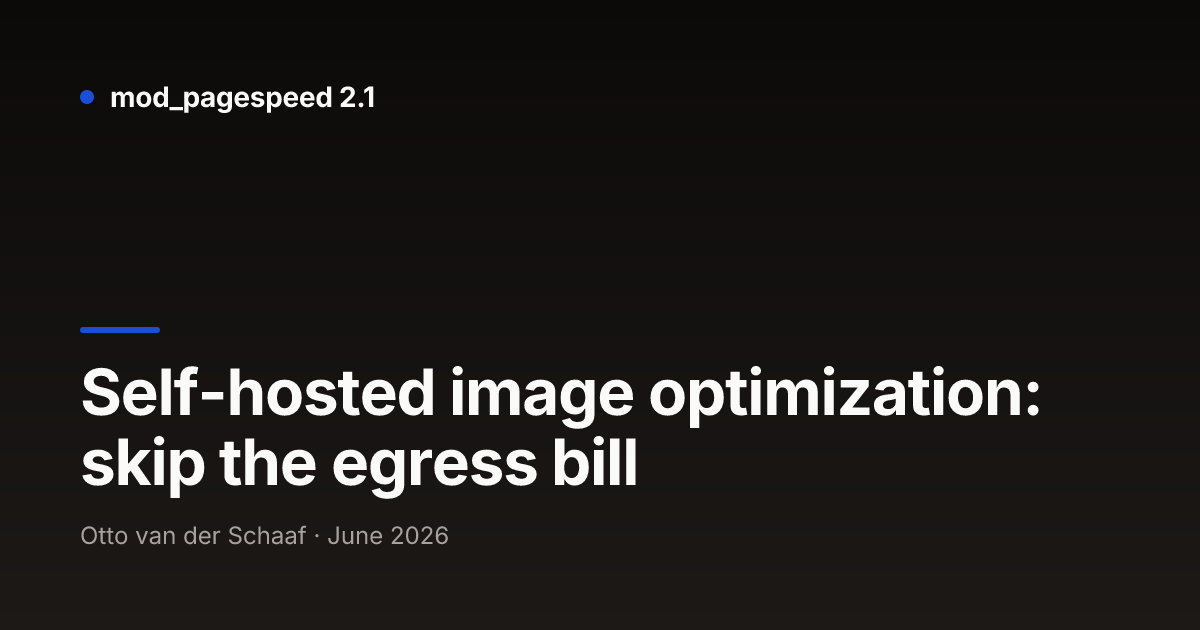
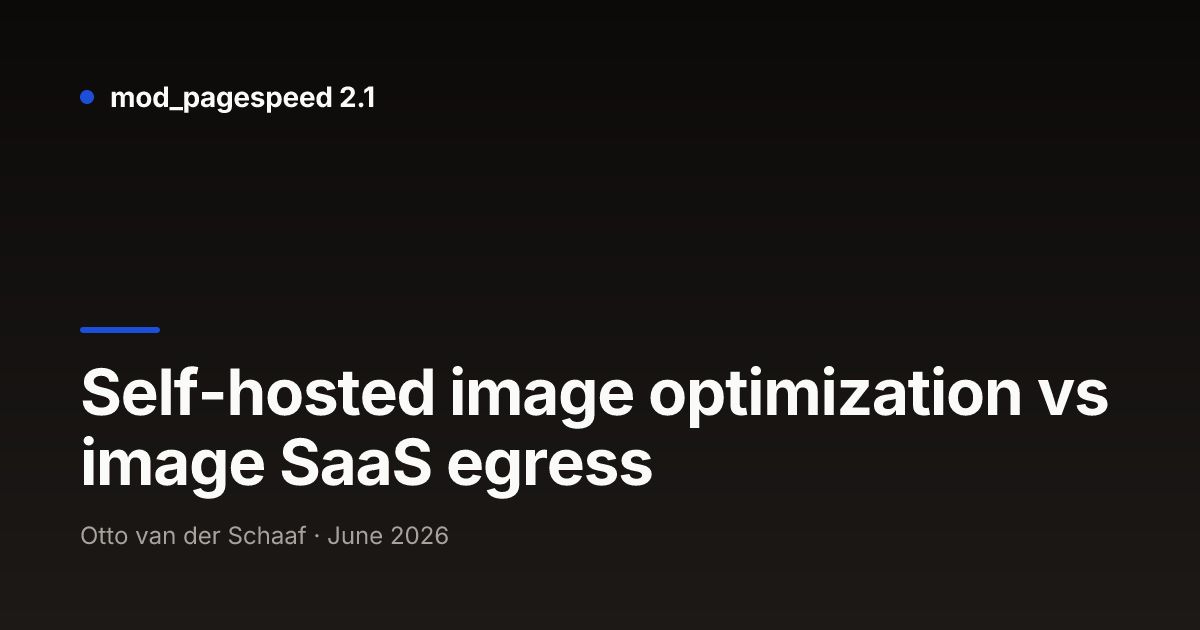
fix(website): review follow-ups on copy and titles
- Search Console post: the author line names the work on ngx_pagespeed,
  mod_pagespeed and the Apache incubation, and mod_pagespeed 2.1 as the
  maintained continuation.
- Terms description: one sentence end, no double period.
- Migration post titled as the 2.0 guide it is.
- CLS on nginx post: the description names ngx_pagespeed again.
- Self-hosted image optimization post: a title distinct from the page.
- PageSpeed module explainer: only the ngx_pagespeed build failure on
  current nginx is stated.
- Core Web Vitals metric names capitalised as proper nouns in the pillar
  titles, headings and the links to them.

Changed region(s): [[0.0617, 0.6937, 0.555, 0.8143], [0.8325, 0.6032, 0.925, 0.6635]]

diff --git a/website/src/data/cwv-pillars.ts b/website/src/data/cwv-pillars.ts
@@ -94,10 +94,10 @@ export const pillars: CwvPillar[] = [
     abbr: 'LCP',
     name: 'Largest Contentful Paint',
     slug: '/core-web-vitals/lcp/',
-    title: 'How to fix largest contentful paint (LCP) in 2026',
+    title: 'How to fix Largest Contentful Paint (LCP) in 2026',
     description:
       'Fix LCP (Largest Contentful Paint) by phase: diagnose TTFB, load delay, load duration, and render delay, then fix it at the server layer and in your app.',
-    h1: 'How to fix largest contentful paint (LCP)',
+    h1: 'How to fix Largest Contentful Paint (LCP)',
     serverFilters: [
       'prioritize_critical_css',
       'convert_jpeg_to_webp',
@@ -237,10 +237,10 @@ export const pillars: CwvPillar[] = [
     abbr: 'CLS',
     name: 'Cumulative Layout Shift',
     slug: '/core-web-vitals/cls/',
-    title: 'How to fix cumulative layout shift (CLS) in 2026',
+    title: 'How to fix Cumulative Layout Shift (CLS) in 2026',
     description:
       'Fix CLS (Cumulative Layout Shift): reserve space with server-set image dimensions and critical CSS, then handle the font, iframe, and JS-injection cases.',
-    h1: 'How to fix cumulative layout shift (CLS)',
+    h1: 'How to fix Cumulative Layout Shift (CLS)',
     serverFilters: ['insert_image_dimensions', 'prioritize_critical_css', 'extend_cache'],
     intro:
       '<p>CLS is a layout-reservation problem, not a loading-speed problem. The page jumps because something arrived later than the layout assumed: an image with no reserved box, a font that reflowed the text, a banner that pushed content down. The fix is not "load faster"; it is "reserve the right space before the late thing arrives." With that framing, most CLS work is mechanical.</p><p>This page covers what CLS measures, how to find the element that owns the shift, and how to fix it, split between what a <a href="/features/">server-layer optimizer</a> handles for you and what only your own CSS and markup can. The largest single cause, images without explicit dimensions, mod_pagespeed fixes automatically; the rest needs reserved space you have to write. To see your own numbers, <a href="/analyze/">analyze a page</a> first.</p>',
@@ -364,10 +364,10 @@ export const pillars: CwvPillar[] = [
     abbr: 'INP',
     name: 'Interaction to Next Paint',
     slug: '/core-web-vitals/inp/',
-    title: 'How to fix interaction to next paint (INP) in 2026',
+    title: 'How to fix Interaction to Next Paint (INP) in 2026',
     description:
       "Fix INP (Interaction to Next Paint): the input-delay, processing, and presentation phases, the app-layer fixes, and where a server optimizer can't help.",
-    h1: 'Interaction to next paint (INP): diagnose it, then fix it',
+    h1: 'Interaction to Next Paint (INP): diagnose it, then fix it',
     intro:
       '<p><strong>Interaction to Next Paint (INP)</strong> is the Core Web Vital that measures responsiveness: how long the user waits between a click, tap, or keypress and the next frame the browser paints in response. It replaced First Input Delay in March 2024. Unlike its predecessor it counts the whole interaction: not just the delay before your handler runs, but the handler itself and the paint that follows. That makes it the hardest vital to game, and the one most sites still fail.</p><p>Know this before you start: INP is the metric where a server-layer optimizer helps the least. The dominant cause is JavaScript running on the main thread, and that JavaScript lives in <em>your application code</em>, not at the server. This page gives you the diagnosis workflow and fixes split by where they actually live: the few things <a href="/features/">mod_pagespeed</a> can do at the server layer, and the larger set of changes only your app can make. Then it hands you off to the per-platform guide that names the failure modes on your stack.</p>',
     thresholds: {

diff --git a/website/tests/search-capture.spec.ts b/website/tests/search-capture.spec.ts
@@ -19,8 +19,8 @@ const titles: Array<[string, string]> = [
     '/alternatives/google-pagespeed-module/',
     'What is the Google PageSpeed module, and what replaced it',
   ],
-  ['/core-web-vitals/cls/', 'How to fix cumulative layout shift (CLS) in 2026'],
-  ['/core-web-vitals/lcp/', 'How to fix largest contentful paint (LCP) in 2026'],
+  ['/core-web-vitals/cls/', 'How to fix Cumulative Layout Shift (CLS) in 2026'],
+  ['/core-web-vitals/lcp/', 'How to fix Largest Contentful Paint (LCP) in 2026'],
   ['/ai-readability/', 'AI readability checker: what AI crawlers read on your page'],
   [
     '/blog/economics-of-image-optimization/',

diff --git a/website/src/content/blog/wordpress-server-side-page-cache-plugin.md b/website/src/content/blog/wordpress-server-side-page-cache-plugin.md
@@ -51,9 +51,9 @@ The plugin auto-detects which one of the two is running and adjusts. The same se
 - [What Happens When You Purge One URL](/blog/single-url-cache-purge-optimizing-proxy/) — the cache fan-out a single purge call actually triggers
 - [Where TTFB Actually Goes, and the Server-Layer Fix](/blog/reduce-ttfb-server-layer-2026/) — why a server-side page cache is the lever for time-to-first-byte
 - [Fixing LCP on WordPress](/blog/fix-lcp-wordpress-2026/) — what server-layer caching and optimization do for Largest Contentful Paint
-- [How to fix largest contentful paint (LCP)](/core-web-vitals/lcp/): the four LCP phases and the server-side fixes
+- [How to fix Largest Contentful Paint (LCP)](/core-web-vitals/lcp/): the four LCP phases and the server-side fixes
 - [Fixing CLS on WordPress](/blog/fix-cls-wordpress-2026/) — the layout-shift fixes that pair with a cacheable anonymous page
-- [How to fix cumulative layout shift (CLS)](/core-web-vitals/cls/): causes, thresholds and the server-side fixes
+- [How to fix Cumulative Layout Shift (CLS)](/core-web-vitals/cls/): causes, thresholds and the server-side fixes
 - [mod_pagespeed vs WP Rocket](/vs/wp-rocket/) — where the cache lives, PHP layer versus server module
 - [Running mod_pagespeed with Docker Compose](/blog/run-with-docker-compose/) — standing up the optimizer worker the plugin talks to
 - [Cache-Control and purging](/docs/cache-control/) — how full-page caching and invalidation work in the module

diff --git a/website/src/content/blog/fix-cls-nginx-2026.md b/website/src/content/blog/fix-cls-nginx-2026.md
@@ -1,6 +1,6 @@
 ---
 title: 'Fix CLS on nginx with mod_pagespeed: insert_image_dimensions'
-description: 'Fix CLS on nginx-served sites: add width and height to img tags with the mod_pagespeed 2.1 module, add a CSS aspect-ratio backstop, set sizes at build.'
+description: 'Fix CLS on nginx sites: add width and height to img tags with ngx_pagespeed (mod_pagespeed 2.1), add a CSS aspect-ratio backstop, set sizes at build.'
 date: 2026-05-12
 lastUpdated: 2026-07-04
 author: 'Otto van der Schaaf'
@@ -156,7 +156,7 @@ Add the CSS rule `img { max-width: 100%; height: auto; }` and modern browsers co
 ## Related
 
 - [How to fix LCP on nginx](/blog/fix-lcp-nginx-2026/)
-- [How to fix largest contentful paint (LCP)](/core-web-vitals/lcp/): the four LCP phases and the server-side fixes
+- [How to fix Largest Contentful Paint (LCP)](/core-web-vitals/lcp/): the four LCP phases and the server-side fixes
 - [How to fix INP on nginx](/blog/fix-inp-nginx-2026/)
 - [How to fix CLS on WordPress](/blog/fix-cls-wordpress-2026/)
 - [Server-side critical CSS on nginx](/blog/server-side-critical-css-nginx/)

diff --git a/website/src/content/blog/search-console-ai-performance-report-vs-page-speed.md b/website/src/content/blog/search-console-ai-performance-report-vs-page-speed.md
@@ -14,7 +14,7 @@ Google's new Search Console report measures your search visibility inside its ge
 
 That trips people up because the report is named for "performance," and "performance" is also the word PageSpeed Insights, Lighthouse, Core Web Vitals, and mod_pagespeed use for how fast your pages load and how stable they are while loading. Same word, two unrelated measurements.
 
-I'm an Apache PageSpeed committer who helped ship open-source PageSpeed releases, and now build the commercial successors at We-Amp B.V., so the speed half is the half I work on. The visibility half is Google's new report, worth understanding on its own terms.
+I'm an Apache PageSpeed committer: I helped build ngx_pagespeed, maintained mod_pagespeed and drove its Apache incubation, and now build its maintained continuation, mod_pagespeed 2.1, at We-Amp B.V., so the speed half is the half I work on. The visibility half is Google's new report, worth understanding on its own terms.
 
 ## What Google actually announced
 

diff --git a/website/src/content/blog/fix-inp-woocommerce-2026.md b/website/src/content/blog/fix-inp-woocommerce-2026.md
@@ -135,9 +135,9 @@ If your INP problem is on the homepage/blog, the server layer is the high-levera
 
 - [WordPress full-page caching plugin](/wordpress/)
 - [How to fix LCP on WooCommerce](/blog/fix-lcp-woocommerce-2026/)
-- [How to fix largest contentful paint (LCP)](/core-web-vitals/lcp/): the four LCP phases and the server-side fixes
+- [How to fix Largest Contentful Paint (LCP)](/core-web-vitals/lcp/): the four LCP phases and the server-side fixes
 - [How to fix CLS on WooCommerce](/blog/fix-cls-woocommerce-2026/)
-- [How to fix cumulative layout shift (CLS)](/core-web-vitals/cls/): causes, thresholds and the server-side fixes
+- [How to fix Cumulative Layout Shift (CLS)](/core-web-vitals/cls/): causes, thresholds and the server-side fixes
 - [How to fix INP on WordPress](/blog/fix-inp-wordpress-2026/)
 - [Critical CSS without a headless browser](/blog/critical-css-heuristics/)
 - [mod_pagespeed filter reference](/docs/filter-reference/)

diff --git a/website/src/content/blog/fix-inp-wordpress-2026.md b/website/src/content/blog/fix-inp-wordpress-2026.md
@@ -138,9 +138,9 @@ WordPress INP is mostly a plugin-discipline problem. mod_pagespeed reduces the p
 
 - [WordPress full-page caching plugin](/wordpress/)
 - [How to fix LCP on WordPress](/blog/fix-lcp-wordpress-2026/)
-- [How to fix largest contentful paint (LCP)](/core-web-vitals/lcp/): the four LCP phases and the server-side fixes
+- [How to fix Largest Contentful Paint (LCP)](/core-web-vitals/lcp/): the four LCP phases and the server-side fixes
 - [How to fix CLS on WordPress](/blog/fix-cls-wordpress-2026/)
-- [How to fix cumulative layout shift (CLS)](/core-web-vitals/cls/): causes, thresholds and the server-side fixes
+- [How to fix Cumulative Layout Shift (CLS)](/core-web-vitals/cls/): causes, thresholds and the server-side fixes
 - [How to fix INP on WooCommerce](/blog/fix-inp-woocommerce-2026/)
 - [Critical CSS without a headless browser](/blog/critical-css-heuristics/)
 - [mod_pagespeed filter reference](/docs/filter-reference/)

diff --git a/website/src/content/blog/fix-inp-aspnet-core-2026.md b/website/src/content/blog/fix-inp-aspnet-core-2026.md
@@ -158,9 +158,9 @@ ASP.NET Core's INP story is almost entirely about what frontend you ship. mod_pa
 ## Related
 
 - [How to fix LCP on ASP.NET Core](/blog/fix-lcp-aspnet-core-2026/)
-- [How to fix largest contentful paint (LCP)](/core-web-vitals/lcp/): the four LCP phases and the server-side fixes
+- [How to fix Largest Contentful Paint (LCP)](/core-web-vitals/lcp/): the four LCP phases and the server-side fixes
 - [How to fix CLS on ASP.NET Core](/blog/fix-cls-aspnet-core-2026/)
-- [How to fix cumulative layout shift (CLS)](/core-web-vitals/cls/): causes, thresholds and the server-side fixes
+- [How to fix Cumulative Layout Shift (CLS)](/core-web-vitals/cls/): causes, thresholds and the server-side fixes
 - [How to fix INP on nginx (generic)](/blog/fix-inp-nginx-2026/)
 - [ModPageSpeed 2.0 as ASP.NET Core middleware](/blog/aspnet-core-middleware/)
 - [mod_pagespeed filter reference](/docs/filter-reference/)

diff --git a/website/src/content/blog/fix-inp-magento-2026.md b/website/src/content/blog/fix-inp-magento-2026.md
@@ -155,9 +155,9 @@ No. Magento's RequireJS bootstrap is order-sensitive, and deferring scripts brea
 ## Related
 
 - [How to fix LCP on Magento](/blog/fix-lcp-magento-2026/)
-- [How to fix largest contentful paint (LCP)](/core-web-vitals/lcp/): the four LCP phases and the server-side fixes
+- [How to fix Largest Contentful Paint (LCP)](/core-web-vitals/lcp/): the four LCP phases and the server-side fixes
 - [How to fix CLS on Magento](/blog/fix-cls-magento-2026/)
-- [How to fix cumulative layout shift (CLS)](/core-web-vitals/cls/): causes, thresholds and the server-side fixes
+- [How to fix Cumulative Layout Shift (CLS)](/core-web-vitals/cls/): causes, thresholds and the server-side fixes
 - [How to fix INP on nginx (generic)](/blog/fix-inp-nginx-2026/)
 - [Critical CSS without a headless browser](/blog/critical-css-heuristics/)
 - [mod_pagespeed filter reference](/docs/filter-reference/)

diff --git a/website/src/content/blog/fix-inp-nginx-2026.md b/website/src/content/blog/fix-inp-nginx-2026.md
@@ -144,9 +144,9 @@ This post deliberately does _not_ try to be the definitive INP guide. The INP ×
 ## Related
 
 - [How to fix LCP on nginx](/blog/fix-lcp-nginx-2026/)
-- [How to fix largest contentful paint (LCP)](/core-web-vitals/lcp/): the four LCP phases and the server-side fixes
+- [How to fix Largest Contentful Paint (LCP)](/core-web-vitals/lcp/): the four LCP phases and the server-side fixes
 - [How to fix CLS on nginx](/blog/fix-cls-nginx-2026/)
-- [How to fix cumulative layout shift (CLS)](/core-web-vitals/cls/): causes, thresholds and the server-side fixes
+- [How to fix Cumulative Layout Shift (CLS)](/core-web-vitals/cls/): causes, thresholds and the server-side fixes
 - [How to fix INP on WordPress](/blog/fix-inp-wordpress-2026/)
 - [Server-side critical CSS with nginx](/blog/server-side-critical-css-nginx/)
 - [mod_pagespeed filter reference](/docs/filter-reference/)

diff --git a/website/src/content/blog/fix-cls-wordpress-2026.md b/website/src/content/blog/fix-cls-wordpress-2026.md
@@ -136,7 +136,7 @@ Some CLS sources are outside mod_pagespeed's reach.
 - [WordPress full-page caching plugin](/wordpress/)
 - [WordPress server-side page-cache plugin](/blog/wordpress-server-side-page-cache-plugin/)
 - [How to fix LCP on WordPress](/blog/fix-lcp-wordpress-2026/)
-- [How to fix largest contentful paint (LCP)](/core-web-vitals/lcp/): the four LCP phases and the server-side fixes
+- [How to fix Largest Contentful Paint (LCP)](/core-web-vitals/lcp/): the four LCP phases and the server-side fixes
 - [How to fix INP on WordPress](/blog/fix-inp-wordpress-2026/)
 - [How to fix CLS on WooCommerce](/blog/fix-cls-woocommerce-2026/)
 - [Critical CSS without a headless browser](/blog/critical-css-heuristics/)

diff --git a/website/src/content/blog/fix-lcp-wordpress-2026.md b/website/src/content/blog/fix-lcp-wordpress-2026.md
@@ -173,7 +173,7 @@ Cases where mod_pagespeed alone isn't enough on WordPress:
 - [WordPress full-page caching plugin](/wordpress/)
 - [How to fix INP on WordPress](/blog/fix-inp-wordpress-2026/)
 - [How to fix CLS on WordPress](/blog/fix-cls-wordpress-2026/)
-- [How to fix cumulative layout shift (CLS)](/core-web-vitals/cls/): causes, thresholds and the server-side fixes
+- [How to fix Cumulative Layout Shift (CLS)](/core-web-vitals/cls/): causes, thresholds and the server-side fixes
 - [How to fix LCP on WooCommerce](/blog/fix-lcp-woocommerce-2026/)
 - [Critical CSS without a headless browser](/blog/critical-css-heuristics/)
 - [Server-side critical CSS on nginx](/blog/server-side-critical-css-nginx/)
